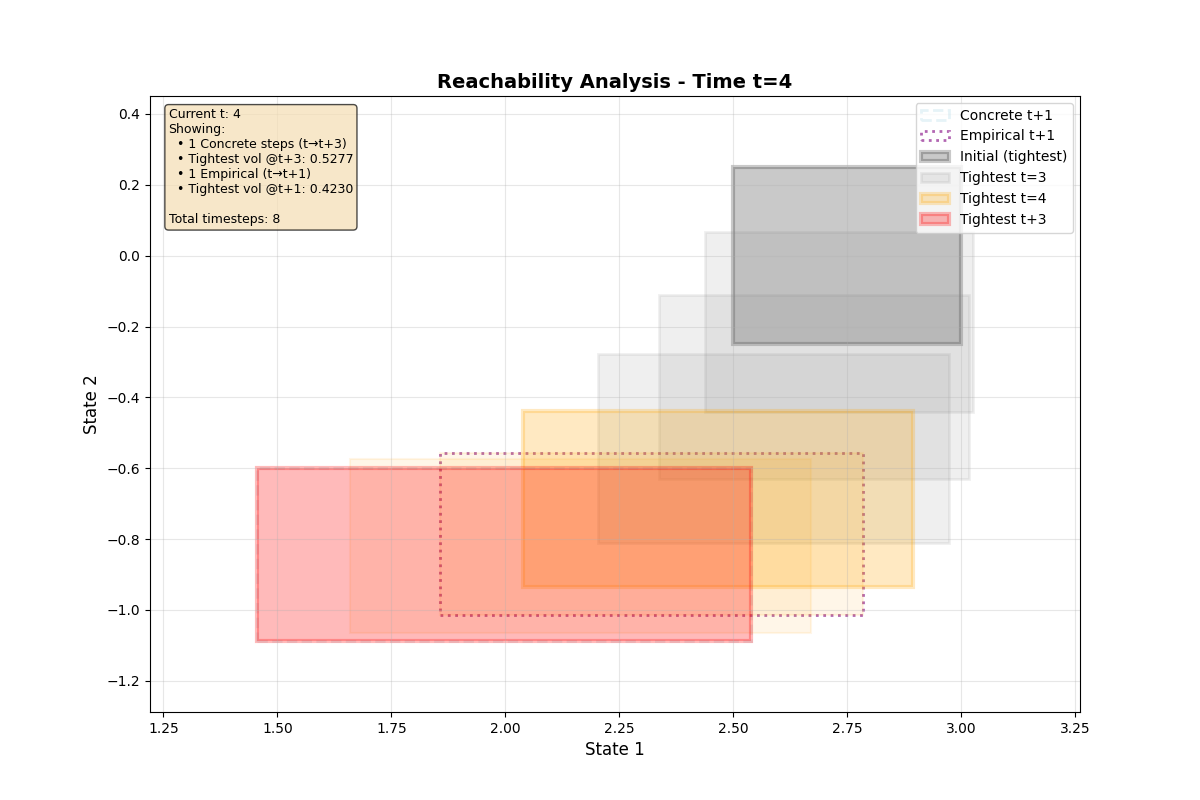
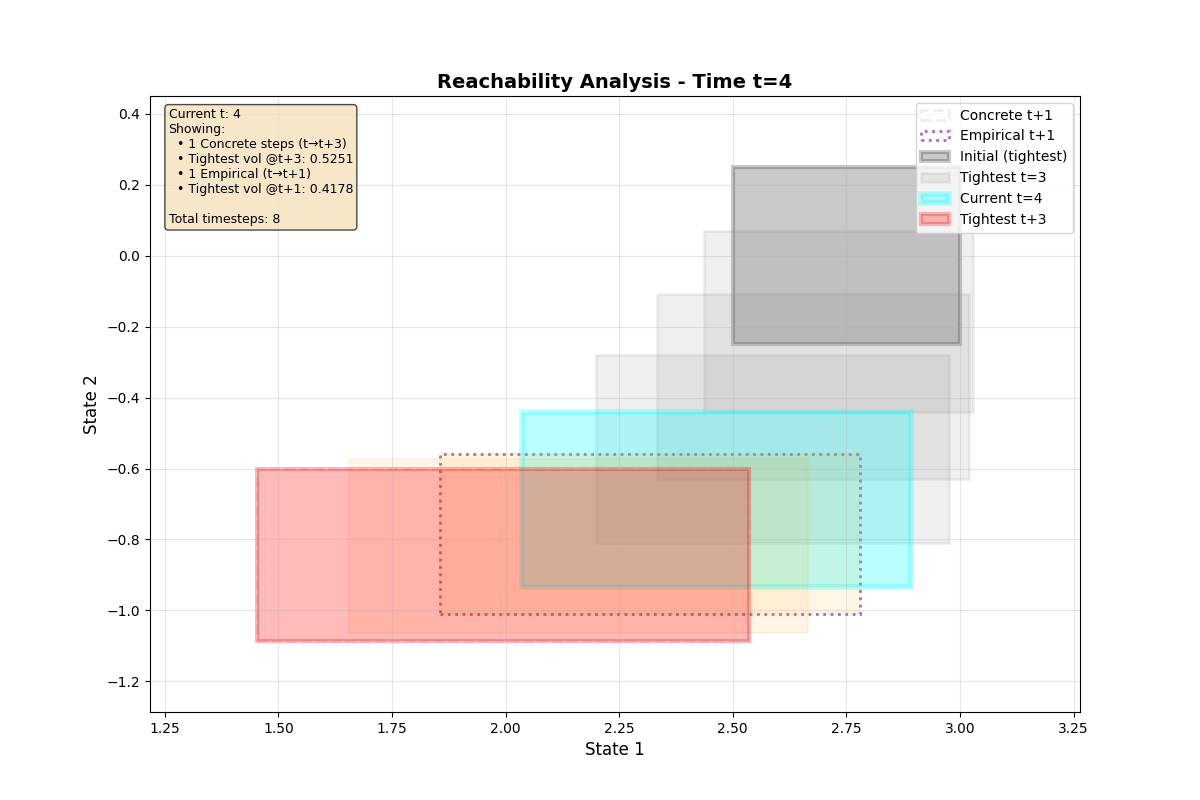
New simulation file

diff --git a/nfl_robustness_training/src/new_reachable_sim.py b/nfl_robustness_training/src/new_reachable_sim.py
@@ -120,6 +120,7 @@ class ReachableSetHorizon:
             print(f"{calc_id:<5} {calc['calc_type'].value:<12} {calc['volume']:<12.6f} "
                   f"{calc['computation_time']:<8.4f} {calc['notes']}")
 
+        print(f"Tightest Bound: {self.get_tight_volume()}\n")
 
 
 class ReachabilityTester:
@@ -154,7 +155,7 @@ class ReachabilityTester:
             plt.ion()
             self.fig, self.axes = self._setup_plot()
 
-    def concrete(self, start_timestep: int, end: Optional[int] = None, visualize=True):
+    def concrete(self, start_timestep: int, end: Optional[int] = None, visualize=False):
         """
         Compute concrete reachable set
         Args: start timestep, end timeste[]
@@ -233,7 +234,7 @@ class ReachabilityTester:
 
         return t_elapsed
 
-    def empirical(self, start: int, end: int, num_samples: int = 10000, visualize=True):
+    def empirical(self, start: int, end: int, num_samples: int = 10000, visualize=False):
         """
         Use dynamics to calculate actual reachset
         Args:
@@ -313,7 +314,7 @@ class ReachabilityTester:
 
         return t_elapsed
 
-    def symbolic(self, start: int, end: int, visualize=True):
+    def symbolic(self, start: int, end: int, visualize=False):
         """
         Compute symbolic reachable set
         Args: start timestep, end timestep
@@ -713,11 +714,11 @@ def animate():
                 label = f'Tightest t={timestep}' if timestep == t-1 else None
                 linewidth = 2
             elif timestep == t:
-                # Current timestep
-                color = 'orange'
-                alpha = 0.8
-                label = f'Tightest t={t}'
-                linewidth = 3
+                # Current timestep - use distinctive cyan/teal color
+                color = 'cyan'
+                alpha = 0.9
+                label = f'Current t={t}'
+                linewidth = 4
             elif timestep == t + 3:
                 # Lookahead tightest
                 color = 'red'
